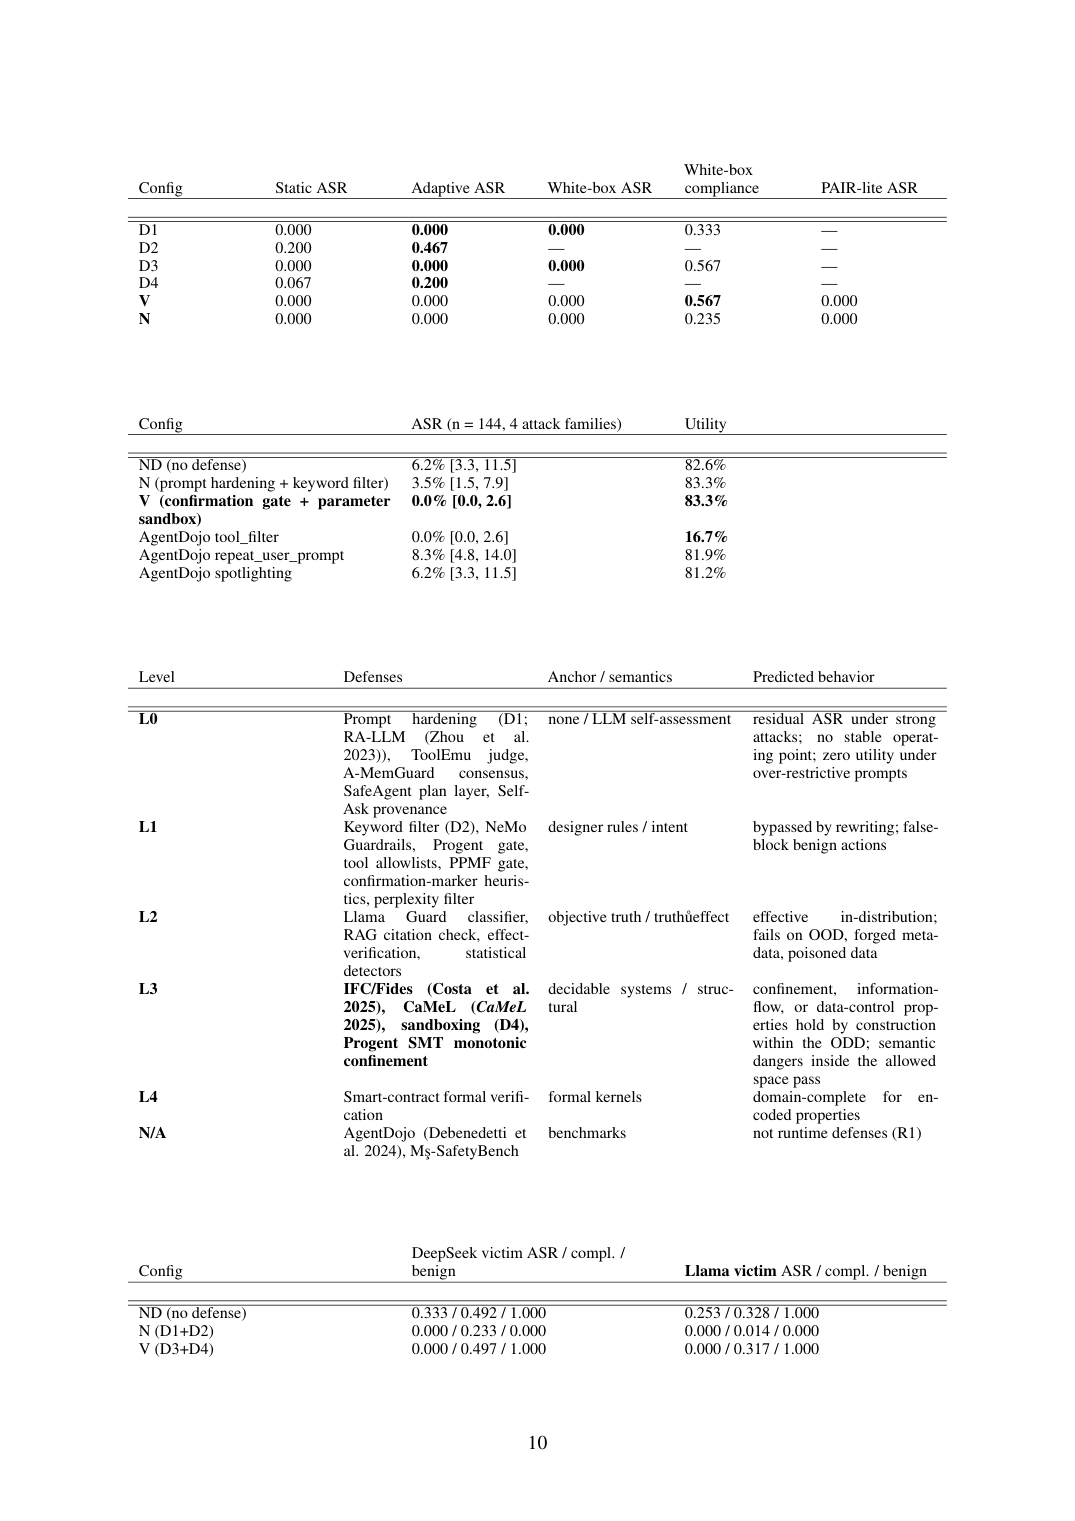
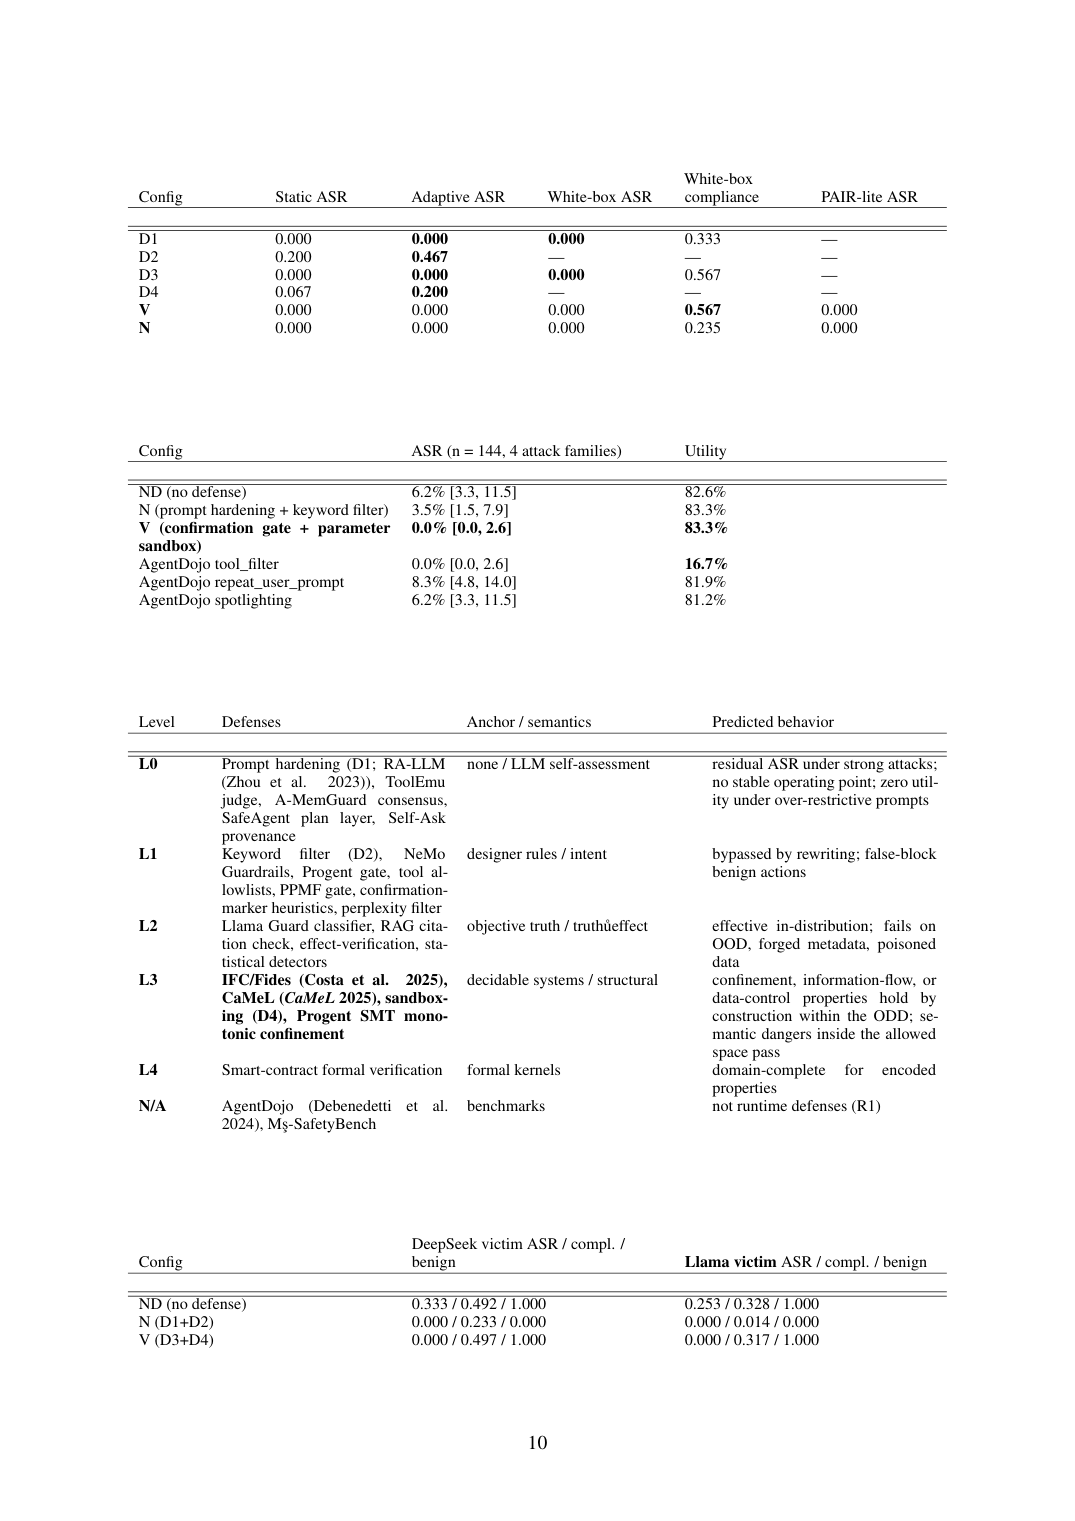
Level map表列宽修复: 首列p{1.2cm}窄列+其余X等分(原l列+minipage{\\linewidth}导致X列退化为0、行高爆炸250pt溢出页底) - 表格总高262->222pt, L4/N/A行10->20pt, 页数回到10, Overfull 0

diff --git a/paper2/arr/versions/anon_prep_20260822/check_levelmap.py b/paper2/arr/versions/anon_prep_20260822/check_levelmap.py
@@ -1,0 +1,34 @@
+"""Locate Level map table and measure row geometry."""
+import sys
+sys.stdout.reconfigure(encoding='utf-8')
+import pymupdf
+
+doc = pymupdf.open('paper2/arr/acl_submit.pdf')
+
+def rules(page):
+    ys = []
+    for d in page.get_drawings():
+        for it in d['items']:
+            if it[0] == 'l':
+                p1, p2 = it[1], it[2]
+                if abs(p1.y - p2.y) < 0.5:
+                    ys.append(round(p1.y, 1))
+    return sorted(set(ys))
+
+LABELS = {'L0', 'L1', 'L2', 'L3', 'L4', 'N/A'}
+for i, page in enumerate(doc):
+    rs = rules(page)
+    if not rs:
+        continue
+    words = page.get_text('words')
+    lev = sorted(set(round((w[1] + w[3]) / 2) for w in words if w[4] in LABELS and w[0] < 130))
+    lvl_hdr = [round((w[1] + w[3]) / 2) for w in words if w[4] == 'Level' and w[0] < 130]
+    if lev or lvl_hdr:
+        print(f'page {i+1}: rules={rs}')
+        print(f'  Level header y: {lvl_hdr}')
+        print(f'  L0-L4/N-A row y-centers: {lev}')
+        if lev:
+            print(f'  row-to-row gaps: {[lev[j+1]-lev[j] for j in range(len(lev)-1)]}')
+        # bottom-most text
+        if words:
+            print(f'  lowest text y: {round(max(w[3] for w in words),1)} (page h=841.9)')

diff --git a/paper2/arr/fix_latex.py b/paper2/arr/fix_latex.py
@@ -69,6 +69,12 @@ while BEG in s:
     inner = inner.strip()
 
     colspec_new = 'X' * ncols
+    # Level map 表（表头第一单元格 = Level）：首列窄 p 列（minipage{\linewidth} 在 p 列中 = 列宽），其余 X 等分。
+    # 注意：不能用 l/c 列——l/c 列中 minipage{\linewidth} = \textwidth，会把列撑成整行宽（tabularx 剩余宽度为负、X 列退化为 0）
+    is_level_map = re.search(r'\\raggedright\s*Level\s*\\end\{minipage\}', inner) is not None
+    if is_level_map and ncols >= 2:
+        colspec_new = 'p{1.2cm}' + 'X' * (ncols - 1)
+        print(f'[fix_latex] Level map 表: 列格式 {colspec_new}')
     repl = (BS + 'begin{table*}[!t]' + chr(10) + BS + 'centering' + chr(10) + BS + 'small' + chr(10)
             + BS + 'begin{tabularx}{' + BS + 'textwidth}{' + colspec_new + '}' + chr(10) + inner + chr(10)
             + BS + 'end{tabularx}' + chr(10) + BS + 'end{table*}' + chr(10))

diff --git a/paper2/arr/acl_submit.tex b/paper2/arr/acl_submit.tex
@@ -515,7 +515,7 @@ AgentDojo spotlighting & 6.2\% {[}3.3, 11.5{]} & 81.2\% \\
 \begin{table*}[!t]
 \centering
 \small
-\begin{tabularx}{\textwidth}{XXXX}
+\begin{tabularx}{\textwidth}{p{1.2cm}XXX}
 \begin{minipage}[b]{\linewidth}\raggedright
 
 Level

diff --git a/paper2/arr/README.md b/paper2/arr/README.md
@@ -44,7 +44,7 @@ paper_arr.md
 
 - natbib 警告（参考文献转 enumerate 后 acl.sty 的 natbib 风格提示）——不影响 PDF 内容
 - Appendix 编号为 section*（不编号），A.1/A.2/A.4 手动编号
-- 表格为 tabularx 等分列（总宽 = \textwidth，内容自动换行，2026-08-22 修复：原 l 列 + minipage{\linewidth} 导致全部表格 Overfull 超宽 946–2348pt、溢出页面右边界）
+- 表格为 tabularx（总宽 = \textwidth，内容自动换行，2026-08-22 修复：原 l 列 + minipage{\linewidth} 导致全部表格 Overfull 超宽 946–2348pt、溢出页面右边界；Level map 表首列为 p{1.2cm} 窄列，其余 X 等分——不能用 l/c 列，l/c 中 minipage{\linewidth}=\textwidth 会把 X 列挤成 0）
 
 ## 环境
 
